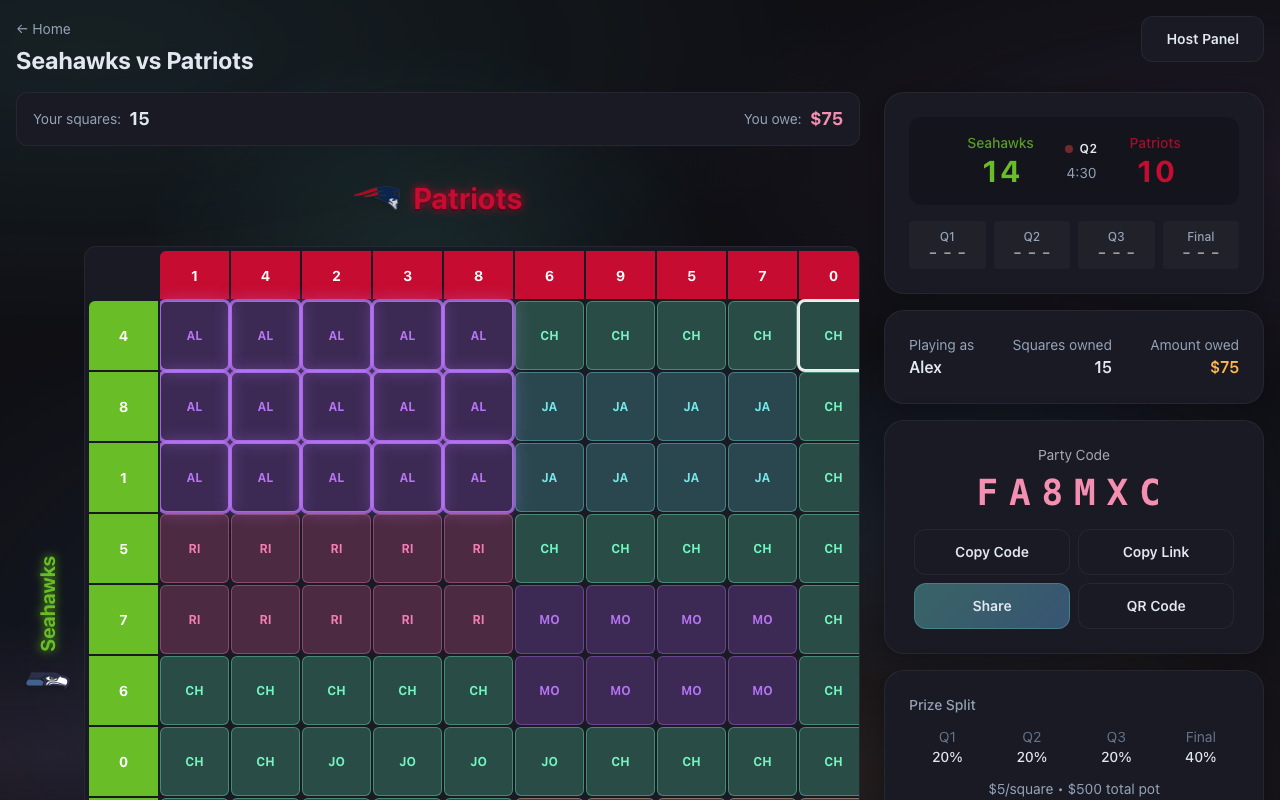
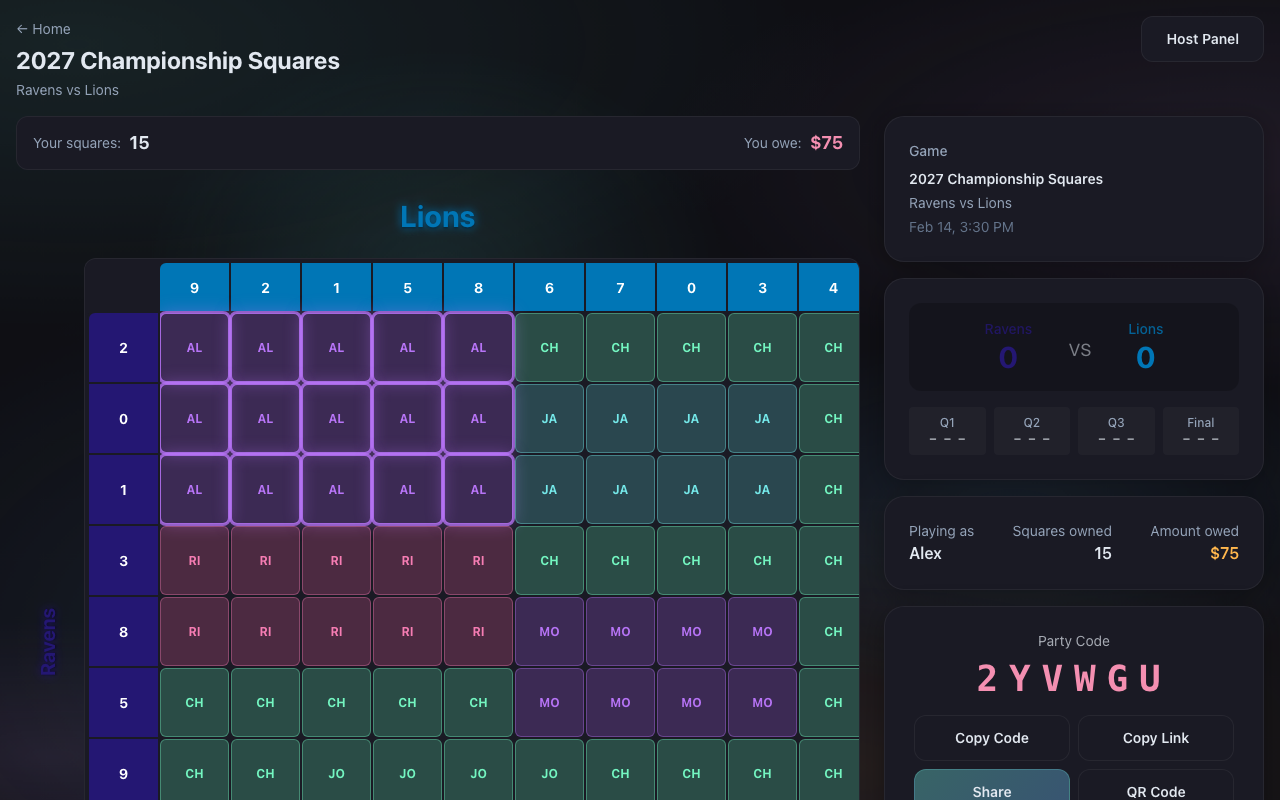
docs: refresh portfolio screenshots (#177)

diff --git a/scripts/capture-screenshots.ts b/scripts/capture-screenshots.ts
@@ -31,6 +31,10 @@ const ANON_KEY = process.env.VITE_SUPABASE_ANON_KEY ?? '';
 const CLIENT_KEY = process.env.SUPABASE_SERVICE_KEY || ANON_KEY;
 const OUT_DIR = path.resolve(import.meta.dirname, '../docs/screenshots');
 const FRAMES_DIR = path.join(OUT_DIR, 'raw-frames');
+const DEMO_EVENT_NAME = '2027 Championship Squares';
+const DEMO_KICKOFF_AT = '2027-02-14T23:30:00.000Z';
+const DEMO_ROW_TEAM = { name: 'Ravens', color: '#241773' };
+const DEMO_COL_TEAM = { name: 'Lions', color: '#0076B6' };
 
 if (!SUPABASE_URL || !CLIENT_KEY) {
 	console.error('Missing VITE_SUPABASE_URL or VITE_SUPABASE_ANON_KEY in .env');
@@ -90,6 +94,12 @@ async function main() {
 			p_split_q2: 20,
 			p_split_q3: 20,
 			p_split_final: 40,
+			p_event_name: DEMO_EVENT_NAME,
+			p_kickoff_at: DEMO_KICKOFF_AT,
+			p_team_row_name: DEMO_ROW_TEAM.name,
+			p_team_col_name: DEMO_COL_TEAM.name,
+			p_team_row_color: DEMO_ROW_TEAM.color,
+			p_team_col_color: DEMO_COL_TEAM.color,
 		});
 		partyId = party.id as string;
 		partyCode = party.code as string;
